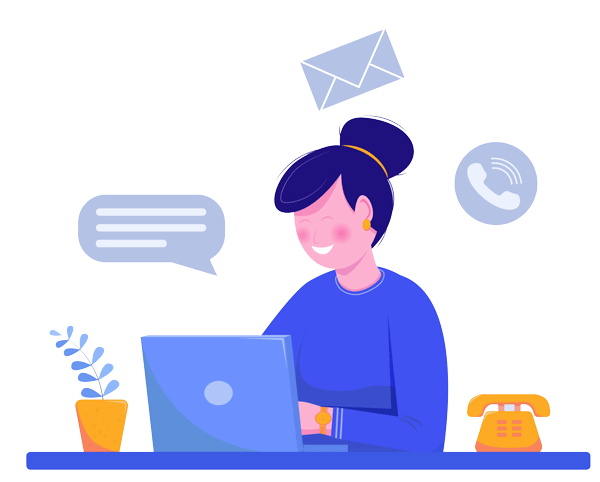
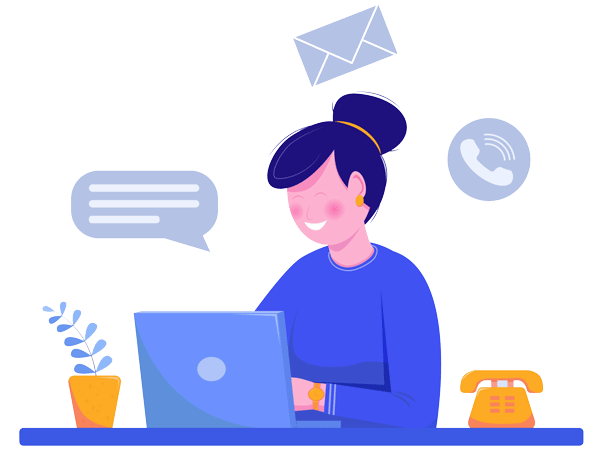
Dans le parcours inscription, rectification taille images pour laisser plus de place à l'écran au footer

diff --git a/src/pages/public/Inscription.js b/src/pages/public/Inscription.js
@@ -48,14 +48,15 @@ export default function Inscription() {
       return;
     }
   };
-
+  //*********************************************************************************************************************************** */
   function AffichageImage() {
     return (
       <div>
-        <img src={velo} alt="Vélo" style={{ height: 400, padding: 50 }} />
+        <img src={velo} alt="Vélo" style={{ height: 350, padding: 30 }} />
       </div>
     );
   }
+  //*********************************************************************************************************************************** */
 
   return (
     <>

diff --git a/src/pages/public/Inscription3.js b/src/pages/public/Inscription3.js
@@ -127,7 +127,7 @@ export default function Inscription3() {
   function AffichageImage() {
     return (
       <div>
-        <img src={contact} alt="Contact" style={{ height: 400, padding: 50 }} />
+        <img src={contact} alt="Contact" style={{ height: 350, padding: 30 }} />
       </div>
     );
   }

diff --git a/src/pages/public/Inscription2.js b/src/pages/public/Inscription2.js
@@ -52,7 +52,7 @@ export default function Inscription2() {
   function AffichageImage() {
     return (
       <div>
-        <img src={bebe} alt="Bébé" style={{ height: 400, padding: 50 }} />
+        <img src={bebe} alt="Bébé" style={{ height: 350, padding: 30 }} />
       </div>
     );
   }
